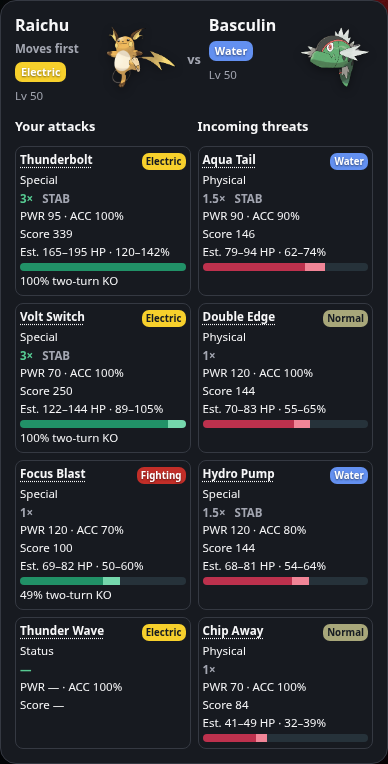
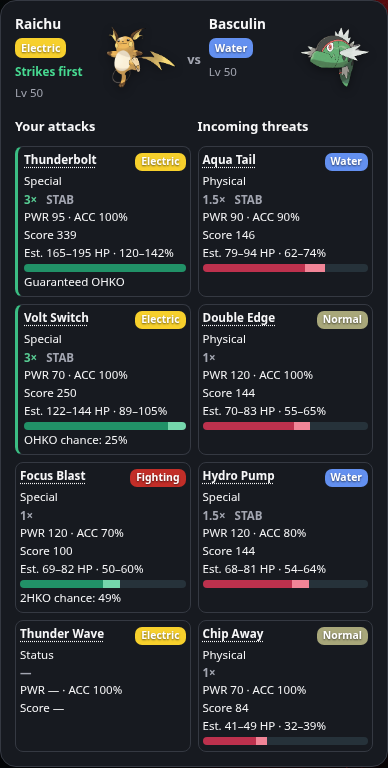
Refine V76 battle presentation and knockout labels

diff --git a/v74-ux.js b/v74-ux.js
@@ -31,7 +31,10 @@ function loaded(side,index){const src=roster(side)[index];if(!src?.name||!last)r
 const outcomes=window.takDexBattleOutcomes;
 function bestMove(a,d,gen){return outcomes.attacks(a,d,gen)[0]||null;}
 function moveSummary(attack,defend,gen){return (attack?.moves||[]).filter(m=>m?.name).map(m=>({m,damage:estimateDamage(attack,defend,m,gen)})).sort((a,b)=>(Number.isFinite(b.damage)?b.damage:-1)-(Number.isFinite(a.damage)?a.damage:-1));}
-function effectivenessClass(move,defender,gen,incoming=false,a){const mult=move&&defender?td72AbilityReport(move,defender,gen,a).base:null;return !Number.isFinite(mult)?'unknown':mult===1?'neutral':(incoming?mult>1:mult<1)?'danger':'safe';}
+function effectivenessClass(mult,incoming){
+ if(!Number.isFinite(mult)||mult===1)return 'neutral';
+ return (incoming?mult<1:mult>1)?'safe':'danger';
+}
 function rankedMatchups(){
  const defender=loaded('opp',oppSelection),gen=last?.gen||gameGeneration($('planGame').value);
  if(!defender)return [];
@@ -52,7 +55,8 @@ function typeBadges(p){const raw=p?.types||[];return raw.length?`<span class="td
 function quickOrder(a,d,gen){
  const speed=p=>p?.baseStats?.speed*(gen>=4&&p.heldItem==='Choice Scarf'?1.5:1);
  const first=speed(a),second=speed(d);
- return first>0&&second>0&&Math.abs(first-second)>=Math.max(5,Math.max(first,second)*.05)?Math.sign(first-second):0;
+ if(!(first>0&&second>0))return null;
+ return Math.abs(first-second)>=Math.max(5,Math.max(first,second)*.05)?Math.sign(first-second):0;
 }
 function potentialThreat(a,d,gen){
  const stats=d.baseStats||{}, physical=stats.attack, special=stats['special-attack'];
@@ -81,13 +85,20 @@ function moveCard(m,a,d,gen,{incoming=false,battle=false,outcome=null,standardOr
   if(TD2_RECHARGE.has(m.name))notes.push('Recharge after hit');
   else if(td2Turns(m,a,gen)>1)notes.push('Charges first');
   if(boosted)notes.push('Boost '+Math.round(outcome.boost*100)+'%');
-  if(outcome?.win>0)notes.push(Math.round(outcome.win*100)+'% two-turn KO');
+  if(outcome){
+   const knockout=outcome.verifiedThreat?outcomes.koLabel(outcome):'';
+   if(knockout)notes.push(knockout);
+   else if(high>=outcomes.hp(d)&&!TD2_CHARGE.has(m.name)){
+    if(!outcome.verifiedThreat)notes.push('OHKO damage · turn order unknown');
+    else if(outcome.acts===0)notes.push('OHKO damage · may be KO’d before attacking');
+   }
+  }
   if(order!==null&&standardOrder!==null&&order!==standardOrder)notes.push(order===.5?'Speed tie':order?'Moves first':'Moves second');
   const ability=td2OffensiveModifier(m,a,gen);
   if(ability!==1)notes.push(pretty(td2ActualAbility(a))+' ×'+ability);
  }
  if(report.possibleImmune.length)notes.push('Possible immunity: '+report.possibleImmune.map(pretty).join(' / '));
- return `<article class="td74-move-detail td76-move-card td74-effect-${effectivenessClass(m,d,gen,incoming,a)}" data-type-effect="${report.base??''}" data-move-type="${escape(m.type||'')}"><div class="td76-move-head"><button type="button" class="td76-move-link" data-td76-move="${escape(m.name)}">${escape(m.name)}</button>${m.type?pill(m.type):''}</div><small class="td76-move-category">${escape(pretty(m.damageClass||''))}</small><span class="td76-move-effect">${status?'—':multiplier===null?'—':multiplier===0?'Immune':multiplier+'×'}${td3Stab(stab>1)}</span><small>PWR ${power?(power.min===power.max?power.min:power.min+'–'+power.max):'—'} · ACC ${escape(accuracyLabel(m))}</small><small class="td76-move-score">Score ${score===null?'—':Math.round(score)+(highScore>score?'–'+Math.round(highScore):'')}</small>${high===null?'':`<small class="td76-damage-text">Est. ${low}–${high} HP · ${percent(low)}–${percent(high)}%</small><div class="td76-damage-track ${incoming?'incoming':''}" style="--low:${bound(low)}%;--high:${bound(high)}%" aria-hidden="true"></div>`}${notes.length?`<small>${escape(notes.join(' · '))}</small>`:''}</article>`;
+ return `<article class="td74-move-detail td76-move-card td74-effect-${effectivenessClass(status?null:report.effective,incoming)}" data-type-effect="${report.base??''}" data-move-type="${escape(m.type||'')}"><div class="td76-move-head"><button type="button" class="td76-move-link" data-td76-move="${escape(m.name)}">${escape(m.name)}</button>${m.type?pill(m.type):''}</div><small class="td76-move-category">${escape(pretty(m.damageClass||''))}</small><span class="td76-move-effect">${status?'—':multiplier===null?'—':multiplier===0?'Immune':multiplier+'×'}${td3Stab(stab>1)}</span><small>PWR ${power?(power.min===power.max?power.min:power.min+'–'+power.max):'—'} · ACC ${escape(accuracyLabel(m))}</small><small class="td76-move-score">Score ${score===null?'—':Math.round(score)+(highScore>score?'–'+Math.round(highScore):'')}</small>${high===null?'':`<small class="td76-damage-text">Est. ${low}–${high} HP · ${percent(low)}–${percent(high)}%</small><div class="td76-damage-track ${incoming?'incoming':''}" style="--low:${bound(low)}%;--high:${bound(high)}%" aria-hidden="true"></div>`}${notes.length?`<small>${escape(notes.join(' · '))}</small>`:''}</article>`;
 }
 function moveCards(a,d,gen,{incoming=false,battle=false,ranked=[],first=null,standardOrder=null,comparison=null}={}){
  if(!a?.moves||!d)return [];
@@ -95,7 +106,7 @@ function moveCards(a,d,gen,{incoming=false,battle=false,ranked=[],first=null,sta
  const score=m=>expectedPower(m,a,d,gen)??-1;
  if(battle)moves.sort((x,y)=>score(y)-score(x));
  else if(first)moves.sort((x,y)=>Number(y===first)-Number(x===first));
- return [...new Map(moves.map(m=>[td73MoveKey(m.name),m])).values()].map(m=>moveCard(m,a,d,gen,{incoming,battle,outcome:ranked.find(row=>row.m===m),standardOrder,comparison}));
+ return [...new Map(moves.map(m=>[td73MoveKey(m.name),m])).values()].map(m=>moveCard(m,a,d,gen,{incoming,battle,outcome:incoming?outcomes.against(a,d,m,comparison,gen):ranked.find(row=>row.m===m),standardOrder,comparison}));
 }
 window.td76QuickMoveCards=(a,d,gen)=>moveCards(a,d,gen,{battle:true}).join('');
 function duelCard(own,foe,a,d,gen,status,context='planner',recommendation=null){
@@ -104,17 +115,17 @@ function duelCard(own,foe,a,d,gen,status,context='planner',recommendation=null){
  const best=attacks[0], threat=battle?null:outcomes.threat(d,a,gen);
  const knownOrder=best?.n?.type?outcomes.orderChance(a,d,best.m,best.n,gen):null;
  const first=battle?quickOrder(a,d,gen):knownOrder===null||knownOrder===.5?0:knownOrder?1:-1;
- const indicator=battle?'Should strike first':'Moves first';
- const mon=(p,stats,side)=>`<div class="td75-duel-mon td77-duel-mon td73-poke-link" role="button" tabindex="0" data-td73-mon="${escape(p.name)}" data-td73-context="${context}"><img class="td77-duel-art" src="${escape(p.image||art(p.id,p.name))}" alt="" draggable="false" onerror="if(!this.dataset.td7Fallback)this.hidden=true"><strong>${escape(td41PokemonLabel(p.name))}</strong>${first===side?`<small class="td76-turn-order" title="${battle?'Estimate at comparable levels and training':'For the modeled move pair'}">${indicator}</small>`:''}${typeBadges(stats||p)}${td3AbilityText(stats||p)}${battle?'':`<small class="td31-duel-level">Lv ${Number(stats?.level||p.level)||50}${p.saveStats?.shiny?' · ✨':''}</small>`}${stats?.heldItem?`<small>${escape(stats.heldItem)}</small>`:''}</div>`;
+ const indicator=first?(battle?'Should strike first':'Strikes first'):
+  battle&&first===0?'Speed too close to call':knownOrder===.5?'Speed tie':'Turn order uncertain';
+ const orderSide=first||1;
+ const orderClass=first>0?'player':first<0?'opponent':'neutral';
+ const mon=(p,stats,side)=>`<div class="td75-duel-mon td77-duel-mon td73-poke-link" role="button" tabindex="0" data-td73-mon="${escape(p.name)}" data-td73-context="${context}"><img class="td77-duel-art" src="${escape(p.image||art(p.id,p.name))}" alt="" draggable="false" onerror="if(!this.dataset.td7Fallback)this.hidden=true"><strong>${escape(td41PokemonLabel(p.name))}</strong>${typeBadges(stats||p)}${td3AbilityText(stats||p)}${a&&d&&orderSide===side?`<small class="td76-turn-order ${orderClass}" title="${battle?'Estimate at comparable levels and training':'For the modeled move pair'}">${indicator}</small>`:''}${battle?'':`<small class="td31-duel-level">Lv ${Number(stats?.level||p.level)||50}${p.saveStats?.shiny?' · ✨':''}</small>`}${stats?.heldItem?`<small>${escape(stats.heldItem)}</small>`:''}</div>`;
  const outgoing=moveCards(a,d,gen,{battle,ranked:attacks,first:best?.m,standardOrder:knownOrder,comparison:best?.n?.type?best.n:null});
  const incoming=moveCards(d,a,gen,{incoming:true,first:threat?.m,standardOrder:knownOrder===null?null:1-knownOrder,comparison:best?.m});
  const warnings=[];
  if(!battle&&a&&d){
   const opposed=best?.m&&threat?.m?outcomes.orderChance(a,d,best.m,threat.m,gen):null;
   if(threat?.firstKo>0&&opposed!==null&&opposed<1)warnings.push(threat.m.name+(opposed===0&&threat.firstKo>=1?' is predicted to KO before you attack':' can KO before you attack'));
-  else if(knownOrder===0)warnings.push('Opponent moves first');
-  else if(knownOrder===.5)warnings.push('Speed tie for the modeled moves');
-  if(recommendation?.attack.verifiedThreat&&recommendation.attack.win<.9)warnings.push('No safe counter under modeled conditions');
   if(recommendation&&recommendation.i!==ownSelection&&recommendation.attack.win>(best?.win??0))warnings.push('Better matchup: '+td41PokemonLabel(roster('own')[recommendation.i].name));
  }
  const moves=battle?`<div class="td74-clash-columns td76-quick-grid"><section><h4>Your attacks</h4>${outgoing.join('')||'<small>No moves entered.</small>'}</section>${a&&d?potentialThreat(a,d,gen):''}</div>`:

diff --git a/app.js b/app.js
@@ -3909,8 +3909,7 @@ queueMicrotask(()=>{try{const id=localStorage.getItem('takdex-v71-active-team');
  function movePreview(p,m,i){const a=ownedFor(p,chosenSlot),old=moveKey(a?.moves?.[i]),target=goal(m),learned=actualMove(p,target),known=Array.isArray(p.legalMoves);return `<div class="td42-move-flow td5-inline-goal">${moveChip(old)}<span class="td42-arrow">→</span><div class="search td45-move-search"><input autocomplete="off" aria-label="Goal move ${i+1}" placeholder="Search goal move…" data-td45-move="${i}:goal" value="${safe(target?pretty(target):'')}" ${known?'':'disabled'}><div class="suggestions" hidden></div></div>${target&&target!==old?`<button type="button" class="td65-clear td44-goal-clear" data-td44-clear="${i}" aria-label="Reset goal move">×</button>`:''}</div>${old&&target===old?(td51Review(p,m,i)?'<small class="td41-warn">Review</small>':'<small class="td41-good">Keep</small>'):m.purpose==='temporary'?`<small class="td41-warn">Temporary: ${safe(pretty(m.move))}${m.milestone?' · '+safe(m.milestone):''}</small>`:target&&!learned?'<small>Not yet learned</small>':''}${warningMarkup(p,m,i)}${moveTimingMarkup(p,target)}`;}
 
  function updateMovePreviews(){const p=state?.slots[chosenSlot];if(!p)return;for(const [i,m] of p.plannedMoves.entries()){const el=$('td41MoveSlots').querySelector(`[data-td42-preview="${i}"]`);if(el&&!el.contains(document.activeElement))el.innerHTML=movePreview(p,m,i)}}
- const planDex=document.createElement('button');planDex.id='td75PlanDex';planDex.type='button';planDex.textContent='Pokédex';planDex.hidden=true;$('td72MoveHeading').after(planDex);
- function renderMoveSlots(){const host=$('td41MoveSlots'),p=state?.slots[chosenSlot],a=actual()?.pokemon?.[chosenSlot];$('td72MoveHeading').hidden=!p;const dexBtn=$('td75PlanDex');if(dexBtn){dexBtn.hidden=!p;dexBtn.onclick=()=>{if(p)window.takDexBattleNavigationV73?.showDex(p.name,'team-planner',{id:p.id,game:state.game})};}$('td4Clear').hidden=!p;$('td4Clear').disabled=!!state?.approved;const acq=$('td4Edit').querySelector('.td43-acq-options');acq.hidden=!p||progressFor(p)==='On team';if(acq.hidden)acq.open=false;refreshAcquisition();$('td5TeamOptimize').hidden=!p;if(!p){host.innerHTML='';return;}p.plannedMoves=moveSlots(p);const known=Array.isArray(p.legalMoves),heading=a&&!sameMon(a,p)?td41PokemonLabel(a.name)+' → '+td41PokemonLabel(p.name):td41PokemonLabel(p.name);$('td72MoveTitle').textContent=heading+' · Moveset progression';host.innerHTML=`<div class="td42-move-labels"><small>Current move</small><small>Goal move</small></div>${known?'':'<small class="note">Move compatibility loading / unavailable.</small>'}${p.plannedMoves.map((m,i)=>`<div class="td41-move-row"><div data-td42-preview="${i}">${movePreview(p,m,i)}</div></div>`).join('')}`;if($('td5TeamOptimize').open)optimizeTeam();}
+ function renderMoveSlots(){const host=$('td41MoveSlots'),p=state?.slots[chosenSlot],a=actual()?.pokemon?.[chosenSlot];$('td72MoveHeading').hidden=!p;$('td4Clear').hidden=!p;$('td4Clear').disabled=!!state?.approved;const acq=$('td4Edit').querySelector('.td43-acq-options');acq.hidden=!p||progressFor(p)==='On team';if(acq.hidden)acq.open=false;refreshAcquisition();$('td5TeamOptimize').hidden=!p;if(!p){host.innerHTML='';return;}p.plannedMoves=moveSlots(p);const known=Array.isArray(p.legalMoves),heading=a&&!sameMon(a,p)?td41PokemonLabel(a.name)+' → '+td41PokemonLabel(p.name):td41PokemonLabel(p.name);$('td72MoveTitle').textContent=heading+' · Moveset progression';host.innerHTML=`<div class="td42-move-labels"><small>Current move</small><small>Goal move</small></div>${known?'':'<small class="note">Move compatibility loading / unavailable.</small>'}${p.plannedMoves.map((m,i)=>`<div class="td41-move-row"><div data-td42-preview="${i}">${movePreview(p,m,i)}</div></div>`).join('')}`;if($('td5TeamOptimize').open)optimizeTeam();}
 
  $('td41MoveSlots').addEventListener('toggle',e=>{if(e.target.isConnected&&e.target.matches?.('[data-td42-row]')){const i=Number(e.target.dataset.td42Row);if(e.target.open){openMoveRows.add(i);const b=e.target.querySelector('[data-td42-recommend]');const host=$('td42Recs'+i);if(b&&!b.disabled&&host&&!host.textContent)b.click()}else openMoveRows.delete(i)}},true);
  $('td41MoveSlots').addEventListener('click',async e=>{const b=e.target.closest('[data-td42-recommend]');const pick=e.target.closest('[data-td42-pick]');const p=state?.slots[chosenSlot];if(!p||state.approved)return;const clear=e.target.closest('[data-td44-clear]'),direct=e.target.closest('[data-td44-goal]');if(clear){e.preventDefault();e.stopPropagation();const i=+clear.dataset.td44Clear;p.plannedMoves[i]=resetGoal(p,i);persist();render();renderMoveSlots();refreshMoveInfo();return}if(direct){e.preventDefault();const i=+direct.dataset.td44Goal,row=direct.closest('details');row.open=true;openMoveRows.add(i);const sel=row.querySelector('[data-td45-move$=":goal"]');if(sel&&!sel.disabled){sel.focus();sel.select();}return}if(pick){const [i,j]=pick.dataset.td42Pick.split(':').map(Number),r=moveRecommendations.get(i)?.[j];if(!r||!p.legalMoves?.includes(r.name))return;const m=p.plannedMoves[i];openMoveRows.add(i);if(m.move&&m.move!==r.name){m.purpose='temporary';m.replacement=r.name;}else{m.move=r.name;m.purpose='keep';m.replacement='';}persist();render();renderMoveSlots();refreshMoveInfo();return;}if(!b)return;const i=Number(b.dataset.td42Recommend),slot=chosenSlot,g=state.game,run=(rowRuns.get(i)||0)+1,stamp=token,host=$('td42Recs'+i);rowRuns.set(i,run);host.textContent='Evaluating legal moves…';const exclude=new Set(p.plannedMoves.flatMap(m=>[m.move,m.replacement]).filter(Boolean)),remaining=state.slots.flatMap((q,j)=>(q?.plannedMoves||[]).filter((_,k)=>j!==slot||k!==i).map(goal)).filter(Boolean);const previous=goal(p.plannedMoves[i])||moveKey(ownedFor(p,slot)?.moves?.[i]),comparisonMove=moveKey(ownedFor(p,slot)?.moves?.[i])||previous,prevInfo=info(comparisonMove),before=coverageFor([...remaining,previous].filter(Boolean)).types,results=[];for(let k=0;k<p.legalMoves.length;k+=10){if(run!==rowRuns.get(i)||stamp!==token||slot!==chosenSlot||!host.isConnected)return;await Promise.all(p.legalMoves.slice(k,k+10).filter(n=>!exclude.has(n)).map(async n=>{const m=info(n)||await enrichMove({name:pretty(n)},gameGeneration(g),g);if(!m?.type||!m.damageClass)return;moveInfo.set(g+':'+n,m);const otherNames=p.plannedMoves.filter((_,j)=>j!==i).map(goal).filter(Boolean),candidate=td5CandidateScore(p,slot,previous,n,otherNames,remaining,g);if(candidate)results.push(candidate);}));}if(run!==rowRuns.get(i)||stamp!==token||slot!==chosenSlot||!host.isConnected)return;const recs=results.sort((a,b)=>b.score-a.score).slice(0,6);moveRecommendations.set(i,recs);host.innerHTML=recs.length?recs.map((r,j)=>`<button type="button" class="td42-rec" data-td42-pick="${i}:${j}"><span class="td44-trade-head">${moveChip(comparisonMove)}<span>→</span>${moveChip(r.name)}</span>${moveTradeoff(prevInfo,info(r.name),r.added,r.lost)}</button>`).join(''):'No coverage improvement or same-type upgrade found.';});

diff --git a/styles.css b/styles.css
@@ -798,8 +798,8 @@ footer::after { content: "Developed by WHOASP"; display: block; margin-top: 6px;
 :is(#plannerPage,#battlePage) .td74-effect-neutral .td74-effect-number,
 :is(#plannerPage,#battlePage) .td74-effect-number.td74-effect-neutral{color:var(--muted)!important}
 :is(#plannerPage,#battlePage) .td74-expanded-pair .td74-move-detail{gap:3px}
-:is(#plannerPage,#battlePage) .td74-expanded-pair .td74-move-detail.td74-effect-safe{border-left:3px solid #3bbd83;padding-left:6px}
-:is(#plannerPage,#battlePage) .td74-expanded-pair .td74-move-detail.td74-effect-danger{border-left:3px solid #e24a61;padding-left:6px}
+:is(#plannerPage,#battlePage) :is(.td74-expanded-pair,.td76-duel-grid,.td76-quick-grid,.matchup-details) .td74-move-detail.td74-effect-safe{border-left:3px solid #3bbd83;padding-left:6px}
+:is(#plannerPage,#battlePage) :is(.td74-expanded-pair,.td76-duel-grid,.td76-quick-grid,.matchup-details) .td74-move-detail.td74-effect-danger{border-left:3px solid #e24a61;padding-left:6px}
 #plannerPage .td74-readonly-moves .td74-saved-move{display:inline-flex;flex-wrap:wrap;gap:6px;align-items:center;border:1px solid var(--c)!important;box-shadow:inset 0 0 0 1px color-mix(in srgb,var(--c) 35%,transparent);background:color-mix(in srgb,var(--c) 23%,transparent);color:var(--text);font-weight:750}
 #plannerPage .td74-readonly-moves .td74-saved-move small{font-weight:700;font-size:.66rem;color:var(--text);opacity:.82}
 #plannerPage .td74-battle-stats{border:1px solid var(--edge);border-radius:10px;padding:9px;margin-top:7px}
@@ -1436,7 +1436,7 @@ main .buttons,dialog .buttons{margin-top:8px;}
 }
 .td76-quick-grid .td76-move-card+.td76-move-card{margin-top:6px}
 .td76-move-head{display:flex;align-items:start;justify-content:space-between;gap:3px;min-width:0}
-.td76-move-head .pill{flex:none;margin:0;padding:2px 4px;font-size:.61rem;white-space:nowrap}
+.td76-move-head .pill{flex:none;margin:0;padding:3px 6px;font-size:.65rem;line-height:1.15;font-weight:750;white-space:nowrap}
 .td76-move-head .td76-move-link{min-width:0;overflow-wrap:anywhere;font-size:clamp(.73rem,2.65vw,.92rem);line-height:1.15}
 .td76-move-card small{font-size:.72rem;line-height:1.3}
 .td76-move-effect{display:flex;align-items:center;gap:5px;font-weight:750}
@@ -1448,7 +1448,11 @@ body.light :is(.td76-move-card,.td76-defense-type).td74-effect-safe :is(.td76-mo
 body.light :is(.td76-move-card,.td76-defense-type).td74-effect-danger :is(.td76-move-effect,strong){color:#aa1739}
 .td76-defense{display:grid;gap:4px;align-content:start}
 .td76-defense-type{display:flex;align-items:center;gap:4px;font-size:.74rem}
-.td76-turn-order{color:var(--text);font-weight:700;font-size:.68rem}
+:is(#battlePage,#plannerPage) .td77-duel-mon .td76-turn-order{color:var(--muted);font-weight:800;font-size:.73rem}
+:is(#battlePage,#plannerPage) .td77-duel-mon .td76-turn-order.player{color:#47d991}
+:is(#battlePage,#plannerPage) .td77-duel-mon .td76-turn-order.opponent{color:#ff6575}
+body.light :is(#battlePage,#plannerPage) .td77-duel-mon .td76-turn-order.player{color:#166b44}
+body.light :is(#battlePage,#plannerPage) .td77-duel-mon .td76-turn-order.opponent{color:#aa1739}
 .td76-damage-track{
  height:8px;border-radius:5px;background:linear-gradient(to right,#219167 0 var(--low),#75d7ac var(--low) var(--high),#26323a var(--high) 100%);
 }
@@ -1456,7 +1460,7 @@ body.light :is(.td76-move-card,.td76-defense-type).td74-effect-danger :is(.td76-
 #plannerPage .td74-stat-field{display:flex;flex-direction:column;align-items:start;gap:4px}
 #plannerPage .td74-stat-field .td76-stat-stepper{display:inline-flex;overflow:visible}
 #plannerPage .td74-stat-field .td76-stat-stepper input{width:38px;height:32px;min-height:32px}
-#dexResult .td74-dex-actions{grid-template-columns:repeat(2,minmax(0,1fr));max-width:300px;margin:8px auto}
+#dexResult .td74-dex-actions{grid-template-columns:repeat(2,minmax(0,1fr));max-width:300px;width:100%;grid-column:1/-1;justify-self:center;margin:8px auto}
 #dexResult .td74-dex-actions>button{min-height:34px;display:inline-flex;align-items:center;justify-content:center;gap:4px;white-space:nowrap;padding:4px!important}
 #dexResult .td76-dex-icon{display:inline-grid;place-items:center;width:15px;height:15px;margin:0;object-fit:contain}
 #teams .td74-builder-inline,#td4TeamPlannerPage #td4Slots>#td4Edit{border:1px solid var(--accent);border-radius:12px}
@@ -1471,5 +1475,7 @@ body.light :is(.td76-move-card,.td76-defense-type).td74-effect-danger :is(.td76-
 #td68MovePage .tm-result.td5-tm-later b{color:#83b9f6}
 #td68MovePage .tm-result.td5-tm-never b{color:#ff7183}
 #td68MovePage #tmPokemonResults{position:static;margin-top:4px}
-.td76-move-head .pill{color:#fff}
-.td76-move-card:is([data-move-type=electric],[data-move-type=normal],[data-move-type=steel],[data-move-type=ice],[data-move-type=fairy]) .td76-move-head .pill{color:#161b22;text-shadow:none}
+:is(#plannerPage,#battlePage) .td76-move-head .pill{color:#fff!important;opacity:1!important;text-shadow:0 1px 2px #0009}
+@media(max-width:480px){
+ :is(#plannerPage,#battlePage) .td77-duel-mon>strong{font-size:clamp(.76rem,3.3vw,.95rem)}
+}

diff --git a/sw.js b/sw.js
@@ -1,7 +1,7 @@
 // V70: match the actual versioned URLs requested by index.html for offline cold starts.
-const NAME='takdex-v76-release-candidate-2';
+const NAME='takdex-v76-release-candidate-3';
 const ART='takdex-artwork-runtime-v74-dev71';
-const FILES=['./','./index.html','./styles.css?v=76.0.1','./bw-core-dev5.js?v=74.0.0','./app.js?v=76.0.1','./gen5-save.js?v=76.0.0','./save-sync.js?v=76.0.0','./db74/gen5-save-names.json','./db74.js?v=74.0.0','./tutor-locations.js?v=74.0.0','./v73-ui.js?v=74.0.0','./hoenn-map.js?v=76.0.0','./maps.js?v=76.0.0','./battle-outcomes.js?v=76.0.0','./v74-ux.js?v=76.0.1','./unova-v74.js?v=74.5.2.20261124','./bw-trainer-moves-v76.js?v=74.5.2.20261124','./unova-trainer-reference.js?v=76.0.0','./sprite-ids-v77.js?v=74.5.2.20261124','./platinum-league-v77.js?v=74.5.2.20261124','./unova-b2w2-v74.js?v=74.0.0','./unova-black-2-v74.jpg?v=74.6.1','./unova-white-2-v74.jpg?v=74.6.1','./unova-black-v78.jpg?v=74.8.3','./unova-white-v78.jpg?v=74.8.3','./feedback-config.js?v=74.0.0','./manifest.webmanifest','./icon-192.png','./icon-512.png','./takdex-background.webp','./takdex-background-light.webp','./takdex-radar-logo.png','./takdex-header-logo.png','./takdex-team-nav.png','./takdex-battle-nav.png','./takdex-pokedex-nav.png','./takdex-splash.png','./sinnoh-platinum-game-map.png'];
+const FILES=['./','./index.html','./styles.css?v=76.0.2','./bw-core-dev5.js?v=74.0.0','./app.js?v=76.0.2','./gen5-save.js?v=76.0.0','./save-sync.js?v=76.0.0','./db74/gen5-save-names.json','./db74.js?v=74.0.0','./tutor-locations.js?v=74.0.0','./v73-ui.js?v=74.0.0','./hoenn-map.js?v=76.0.0','./maps.js?v=76.0.0','./battle-outcomes.js?v=76.0.2','./v74-ux.js?v=76.0.2','./unova-v74.js?v=74.5.2.20261124','./bw-trainer-moves-v76.js?v=74.5.2.20261124','./unova-trainer-reference.js?v=76.0.0','./sprite-ids-v77.js?v=74.5.2.20261124','./platinum-league-v77.js?v=74.5.2.20261124','./unova-b2w2-v74.js?v=74.0.0','./unova-black-2-v74.jpg?v=74.6.1','./unova-white-2-v74.jpg?v=74.6.1','./unova-black-v78.jpg?v=74.8.3','./unova-white-v78.jpg?v=74.8.3','./feedback-config.js?v=74.0.0','./manifest.webmanifest','./icon-192.png','./icon-512.png','./takdex-background.webp','./takdex-background-light.webp','./takdex-radar-logo.png','./takdex-header-logo.png','./takdex-team-nav.png','./takdex-battle-nav.png','./takdex-pokedex-nav.png','./takdex-splash.png','./sinnoh-platinum-game-map.png'];
 FILES.push(...["./db74/e-alpha-sapphire.json","./db74/e-black-2.json","./db74/e-black.json","./db74/e-blue.json","./db74/e-brilliant-diamond.json","./db74/e-crystal.json","./db74/e-diamond.json","./db74/e-emerald.json","./db74/e-firered.json","./db74/e-gold.json","./db74/e-heartgold.json","./db74/e-leafgreen.json","./db74/e-moon.json","./db74/e-omega-ruby.json","./db74/e-pearl.json","./db74/e-platinum.json","./db74/e-red.json","./db74/e-ruby.json","./db74/e-sapphire.json","./db74/e-scarlet.json","./db74/e-shield.json","./db74/e-shining-pearl.json","./db74/e-silver.json","./db74/e-soulsilver.json","./db74/e-sun.json","./db74/e-sword.json","./db74/e-ultra-moon.json","./db74/e-ultra-sun.json","./db74/e-violet.json","./db74/e-white-2.json","./db74/e-white.json","./db74/e-x.json","./db74/e-y.json","./db74/e-yellow.json","./db74/index.json","./db74/machines.json","./db74/moves.json","./db74/p0.json","./db74/p1.json","./db74/p10.json","./db74/p11.json","./db74/p12.json","./db74/p13.json","./db74/p14.json","./db74/p15.json","./db74/p156.json","./db74/p157.json","./db74/p158.json","./db74/p159.json","./db74/p16.json","./db74/p160.json","./db74/p161.json","./db74/p2.json","./db74/p3.json","./db74/p4.json","./db74/p5.json","./db74/p6.json","./db74/p7.json","./db74/p8.json","./db74/p9.json"]);
 self.addEventListener('install',e=>{self.skipWaiting();e.waitUntil(caches.open(NAME).then(c=>c.addAll(FILES)))});
 self.addEventListener('activate',e=>e.waitUntil(caches.keys().then(keys=>Promise.all(keys.filter(k=>(k.startsWith('takdex-v')&&k!==NAME)||k==='takdex-artwork-v26').map(k=>caches.delete(k)))).then(()=>self.clients.claim())));

diff --git a/battle-outcomes.js b/battle-outcomes.js
@@ -28,12 +28,13 @@
  }
  function compare(a,d,m,n,gen) {
   const mons=[a,d], moves=[m,n], initial=mons.map(hp);
-  const result={win:0,firstKo:0,survive:0,acts:0,progress:0,boost:0,damage:0,minimum:Infinity,maximum:0};
+  const result={win:0,firstKo:0,twoHitKo:0,survive:0,acts:0,progress:0,boost:0,damage:0,minimum:Infinity,maximum:0};
   function simulate(turn,state,weight) {
    if (!weight) return;
    if (turn>2 || state.hp.some(value=>value===0)) {
     result.win+=state.hp[0]>0&&state.hp[1]===0?weight:0;
     result.firstKo+=state.hp[1]===0&&turn===2?weight:0;
+    result.twoHitKo+=state.hp[1]===0&&state.landed===2?weight:0;
     result.survive+=state.hp[0]>0?weight:0;
     result.progress+=weight*(initial[1]-state.hp[1])/Math.max(1,initial[1]);
     return;
@@ -86,18 +87,19 @@
       remaining[j]=1;
       if(!sturdy)usedItems[j]=true;
      }else remaining[j]=Math.max(0,remaining[j]-outcome.damage);
+     const landed=current.landed+Number(i===0&&outcome.damage>0);
      if(move.name==='Fake Out'&&outcome.damage>0&&!acted[j]&&td2ActualAbility(mons[j])!=='inner-focus'){
-      next({hp:remaining,mode:modes,usedItems},[true,true],newHits,chance*outcome.weight);
+      next({hp:remaining,mode:modes,usedItems,landed},[true,true],newHits,chance*outcome.weight);
       continue;
      }
      newActed[i]=true;
      newHits[j]=outcome.damage>0;
      if (outcome.damage>0 && TD2_RECHARGE.has(move.name)) modes[i]='recharge';
-     next({hp:remaining,mode:modes,usedItems},newActed,newHits,chance*outcome.weight);
+     next({hp:remaining,mode:modes,usedItems,landed},newActed,newHits,chance*outcome.weight);
     }
    }
   }
-  simulate(1,{hp:initial,mode:[null,null],usedItems:[false,false]},1);
+  simulate(1,{hp:initial,mode:[null,null],usedItems:[false,false],landed:0},1);
   return result;
  }
  const idle={name:'No entered attack',priority:0};
@@ -123,5 +125,14 @@
    return {m,...worst,score:attackScore(worst),verifiedThreat:!!threats.length};
   }).sort((x,y)=>y.win-x.win||y.score-x.score);
  }
- window.takDexBattleOutcomes={attacks,threat,orderChance,hp};
+ function koLabel({firstKo,twoHitKo}){
+  const label=(probability,kind)=>probability>=1-1e-10
+   ? 'Guaranteed '+kind : kind+' chance: '+(probability>=.995?'>99':Math.max(1,Math.round(probability*100)))+'%';
+  return firstKo>0?label(firstKo,'OHKO'):twoHitKo>0?label(twoHitKo,'2HKO'):'';
+ }
+ function against(a,d,move,reply,gen){
+  return reply&&hp(a)>0&&hp(d)>0&&td2Accuracy(move)>0&&estimateDamage(a,d,move,gen)>0
+   ? {...compare(a,d,move,reply,gen),verifiedThreat:true}:null;
+ }
+ window.takDexBattleOutcomes={attacks,threat,orderChance,hp,koLabel,against};
 })();

diff --git a/index.html b/index.html
@@ -13,7 +13,7 @@
 <meta property="og:type" content="website">
 <meta property="og:image" content="https://alexandrestp337.github.io/Tak-Dex/icon-512.png">
 <script type="application/ld+json">{"@context":"https://schema.org","@type":"WebApplication","name":"Tak-Dex","url":"https://alexandrestp337.github.io/Tak-Dex/","applicationCategory":"GameApplication","operatingSystem":"Web browser","description":"Pokémon team builder, battle planner, move checker, Pokédex and interactive region maps.","offers":{"@type":"Offer","price":"0","priceCurrency":"USD"}}</script>
-<link rel="stylesheet" href="styles.css?v=76.0.1">
+<link rel="stylesheet" href="styles.css?v=76.0.2">
 <link rel="icon" type="image/png" sizes="192x192" href="icon-192.png">
 <link rel="apple-touch-icon" sizes="192x192" href="icon-192.png">
 <link rel="manifest" href="manifest.webmanifest">
@@ -345,7 +345,7 @@
 <script src="unova-b2w2-v74.js?v=74.0.0"></script>
 <script src="db74.js?v=74.0.0"></script>
 <script src="gen5-save.js?v=76.0.0"></script>
-<script src="app.js?v=76.0.1"></script>
+<script src="app.js?v=76.0.2"></script>
 <script src="save-sync.js?v=76.0.0"></script>
 <script src="unova-v74.js?v=74.5.2.20261124"></script>
 <script src="bw-trainer-moves-v76.js?v=74.5.2.20261124"></script>
@@ -356,7 +356,7 @@
 <script src="hoenn-map.js?v=76.0.0"></script>
 <script src="maps.js?v=76.0.0"></script>
 <script src="feedback-config.js?v=74.0.0"></script>
-<script src="battle-outcomes.js?v=76.0.0"></script>
-<script src="v74-ux.js?v=76.0.1"></script>
+<script src="battle-outcomes.js?v=76.0.2"></script>
+<script src="v74-ux.js?v=76.0.2"></script>
 </body>
 </html>

diff --git a/.github/v76/FEATURE-LEDGER.md b/.github/v76/FEATURE-LEDGER.md
@@ -4,16 +4,16 @@ V76 corrected web candidate for acceptance. Approved baseline `V75-STABLE` at `3
 
 | Feature | V76 status | Evidence or remaining work |
 | --- | --- | --- |
-| Team Builder and saved teams | Retained | Existing localStorage keys, team JSON flow, manual editor, and Team Planner entry. Save import replaces the party of the selected team. |
+| Team Builder and saved teams | Retained | Existing localStorage keys, team JSON flow, manual editor, and Team Planner entry. Team Builder retains its Pokédex shortcut. Save import replaces the party of the selected team. |
 | Generation V save parsing | Implemented | Read-only 512 KiB snapshots for all four games. CRC and mirrored checksum validation, bank fallback, Pokémon checksum, and source immutability checks. |
 | Party data | Implemented with partial form and evolution presentation | Stats, current HP, level, move IDs and PP, item, ability, IVs, EVs, nature, shiny state, raw form and egg state. Mapped PokéAPI forms have distinct identities. Cosmetic and unsupported form indexes are retained. Bundled parent links supply evolution candidates. Evolution requirements still use the existing reference lookup. |
 | Save synchronization | Web bridge ready | Changed snapshots update the same team. Wrong-game, invalid, stale and identical snapshots retain existing data. Team Builder shows saved-game timestamp. Chromium covered background updates in Battle and fullscreen Maps. |
 | Battle stat sources | Implemented with estimates for trainers | Imported stats at the saved level, imported IV/EV/nature deltas for level edits, manual offsets, and BW2 Challenge Mode underlying level. Verified trainer move and item data does not establish exact trainer stats. |
-| Survival-aware 6v6 | Implemented with bounded model | Immediate KO threat, priority, effective Speed and ties, accuracy, current HP, conditional power, Sturdy and Focus Sash. The recommendation considers two turns of entered attacks. |
+| Survival-aware 6v6 | Implemented with bounded model | Immediate KO threat, priority, effective Speed and ties, accuracy, current HP, conditional power, Sturdy and Focus Sash. The recommendation considers two turns of entered attacks. Move cards prioritize first-turn OHKO and genuine two-hit KO probabilities, with separate damage-potential wording for blocked or uncertain execution. |
 | Conditional moves | Partial | Revenge, Avalanche, Payback, Assurance, Hidden Power, and several context-dependent moves use known inputs. Full mechanics and every move across all generations remain open. |
-| Battle and 6v6 interfaces | Implemented | Team strip above opponent search, restored V75 gold crown treatment, shared move cards, combined STAB display, aligned 6v6 moves and roll bars, matchup warnings, defensive tones, estimated quick Battle order, Move Checker links and return state. Double Battle retains its existing pairing flow. |
+| Battle and 6v6 interfaces | Implemented | Team strip above opponent search, restored V75 gold crown treatment, shared move cards, combined STAB display, aligned 6v6 moves and roll bars, actionable matchup warnings, V75-STABLE effectiveness accents and badge contrast, shared color-coded turn-order placement, Move Checker links and return state. Double Battle retains its existing pairing flow. |
 | Stat editor | Implemented | Both sides reuse the horizontal level step controls with tap-to-select. Saved player team offsets persist. Custom opponent offsets can be stored with the existing saved-opponent presets. |
-| Visual consistency | Partial | Battle move cards, expanded editor borders, compact controls, and equal Pokédex actions and icons received targeted updates. Full visual parity across every tool and on-device rendering remain open. |
+| Visual consistency | Partial | Battle move cards, expanded editor borders, compact controls, and centered equal Pokédex actions with matching icons received targeted updates. Full visual parity across every tool and on-device rendering remain open. |
 | Pokédex | Implemented | Move Checker return restores learnset scroll. Bundled Pokémon and learnsets render when evolution details are unavailable. |
 | Maps | Implemented with partial Emerald coverage | Accepted Hoenn schematic, Pokédex encounter navigation, fitting all plotted encounter pins, live collapsible fullscreen details, and compact toolbar with contained zoom readout. Existing Sinnoh and Unova artwork and data remain in place. |
 | Offline Packs and cache | Retained | Game dropdown status dots are scoped to Offline Packs. V76 shell assets are precached. Browser tested offline cold reload with local move and encounter records. |

diff --git a/.github/v76/RELEASE-REPORT.md b/.github/v76/RELEASE-REPORT.md
@@ -89,3 +89,22 @@ Screenshots from Chromium are available for [mobile 6v6](screenshots/battle-412.
 ### Remaining limits
 
 The two-turn battle estimates, exact trainer stats, and Android V9 validation limits above still apply. Chromium tested representative machine and compatibility flows. Complete enumeration across every game, move, species, ROM and dataset is outside the tested matrix. When evolution data is incomplete, unresolved compatibility stays unknown. Quick Battle omits the Speed badge on close comparisons and estimates turn order at comparable levels and training. The accepted Emerald schematic remains. No phone or Android WebView was used.
+
+## Third correction pass
+
+This pass starts at `8b7a975`. The second acceptance approved the gold recommendation highlight, stat steppers, unified Move Checker, and fullscreen map controls. The changes target the remaining four acceptance areas.
+
+- Battle and 6v6 show one turn-order indicator below the types and ability. Green identifies the player's Pokémon, red identifies the opponent, and neutral text describes close comparisons, ties or uncertain order. The warning box keeps specific threats and better team alternatives.
+- The approved move card layout and aligned 6v6 rows use the original V75-STABLE 3 px effectiveness edges and white type badges with black shadow. Effectiveness colors use the ability-adjusted multiplier before STAB.
+- Battle rankings still use the two-turn model. Move cards use first-turn KO probability and the probability of a KO after two landed attacks. First-turn OHKO labels take precedence, and charged moves are distinguished from two-hit sequences. Incomplete opponent information or a lethal hit before execution can limit the display to damage potential.
+- Team Planner omits the Pokédex shortcut. Team Builder keeps its button. The Pokédex action pair spans the hero grid and centers within the card with its prior button and icon dimensions.
+
+### Verification
+
+- All 25 Node checks passed, including the four public save reference cases. The new KO assertions cover guaranteed and probabilistic OHKOs, damage rolls, misses, preemptive KOs, genuine 2HKOs, charge, recharge and conditional power.
+- Chromium ran the targeted correction suite at 320, 412 and 1280 px. The browser compared computed effect-edge width/color and the Electric badge's foreground, shadow, weight and background directly against V75-STABLE. It also checked turn-order placement and tone, neutral STAB, an ability immunity, aligned move rows, a lethal Thunderbolt at 10% actual OHKO odds, the zero-execution case, and the edited shortcut and button positions.
+- The existing save-import, synchronization, offline and mobile/desktop smoke checks were rerun. The acceptance matrix continues to cover gold highlighting, the unified checker, stat steppers and fullscreen map toolbar.
+
+[Battle at 412 px](screenshots/quick-battle-412.png) · [Battle at 1280 px](screenshots/quick-battle-1280.png) · [6v6 at 412 px](screenshots/battle-412.png) · [6v6 at 1280 px](screenshots/battle-1280.png)
+
+The probability labels describe the modeled moves and damage rolls. The earlier trainer-stat and battle-model limits still apply. Native Android V9 and hardware validation remain a subsequent stage.

diff --git a/.github/v76/ACCEPTANCE.md b/.github/v76/ACCEPTANCE.md
@@ -1,15 +1,15 @@
 # V76 correction acceptance checklist
 
-The initial acceptance returned **3 Pass, 0 Fail and 5 Need work**. This checklist covers the changed web features. The statuses below describe automated coverage. Final user acceptance is pending.
+The second acceptance approved gold recommendations, compact stat editors, the unified Move Checker, and the fullscreen map toolbar. This checklist covers the third correction pass. The statuses below describe automated coverage. Final user acceptance is pending.
 
 | Check | Automated status | Acceptance check |
 | --- | --- | --- |
 | Battle and 6v6 gold recommendation | Pass | Select the best-ranked Pokémon. The approved bright gold border and glow remain visible with the crown. |
-| Shared move cards and combined STAB | Pass | Compare both Battle modes. Check the name and type badge, category, multiplier with STAB, power/accuracy and score. Neutral STAB reads 1.5×. |
-| Regular Battle defense and estimated Speed | Pass | Check weakness and resistance colors, immunities and the comparable-level “Should strike first” cue. Try a close Speed matchup. |
-| 6v6 aligned rows, damage bars and warnings | Pass | Check four distinct moves per column, aligned rows, HP and percentage text, and green/red roll bars. Try an immediate incoming KO and a better alternative. |
+| Shared move cards and combined STAB | Pass | Compare both Battle modes. Check the name and type badge, category, multiplier with STAB, power/accuracy and score. Neutral STAB reads 1.5× and has a neutral left edge. Type badges use white text and the V75 shadow. |
+| Regular Battle defense and estimated Speed | Pass | Check weakness and resistance colors, immunities and the comparable-level “Should strike first” cue. Try a close Speed matchup. The single indicator sits below types and ability in both modes. |
+| 6v6 aligned rows, damage bars and warnings | Pass | Check four distinct moves per column, aligned rows, HP and percentage text, and green/red roll bars. Compare OHKO and 2HKO labels. Try an immediate incoming KO and a better alternative. The warning box shows the specific threat. |
 | Stat steppers | Pass | Tap a value, change it with both adjacent controls, and change the level. Check that the manual offset persists. |
-| Pokédex actions and team editor outlines | Pass | Compare the size and alignment of both Pokédex buttons. Open a Pokémon in Team Builder and Team Planner and compare panel borders. |
+| Pokédex actions and team editor outlines | Pass | Check that both Pokédex buttons center together inside the card. Compare expanded editor outlines. Team Builder retains its shortcut and Team Planner omits it. |
 | Unified Move Checker | Pass for exercised flows | Search by name, TM number and HM number. Try team and individual compatibility, an evolution-only result, acquisition and return from Maps. |
 | Map toolbar | Pass | Check all controls and the percentage in normal and fullscreen views. Zoom, clear a selection and return to the previous tool. |
 
